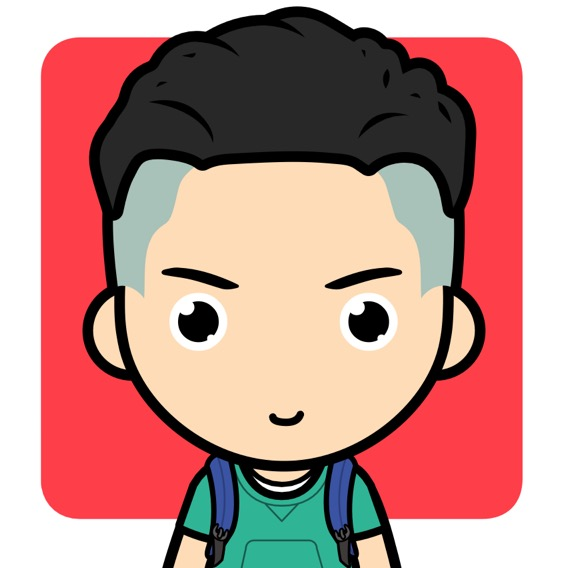
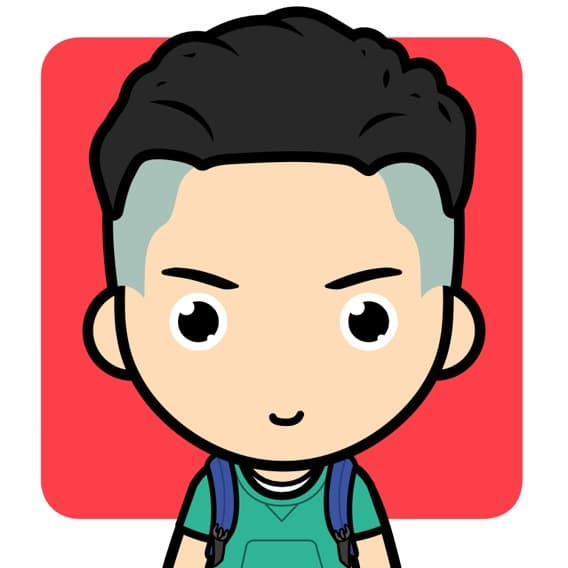
压缩图片

Changed region(s): [[0.8081, 0.5088, 0.838, 0.5387], [0.5088, 0.838, 0.5387, 0.868], [0.4489, 0.838, 0.4789, 0.868]]

diff --git a/index.html b/index.html
@@ -196,7 +196,7 @@
                 </li>
                 <li>
                     <div class='img'>
-                        <img src="./works/works_163.png">
+                        <img src="./works/works_163.jpg">
                     </div>
                     <p class='keyword'>仿云音乐</p>
                     <div class="link">
@@ -213,7 +213,7 @@
                 </li>
                 <li>
                     <div class='img'>
-                        <img src="./works/works_weChat.png">
+                        <img src="./works/works_weChat.jpg">
                     </div>
                     <p class='keyword'>小程序</p>
                     <div class="link">
